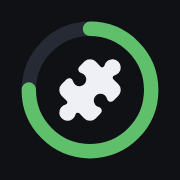
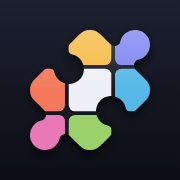
Ícone novo do app e ajustes nos controles do Eclipse
- Ícone do app: peça de quebra-cabeça com mosaico colorido, sombra e
  brilho, sem o anel de progresso; versões para iPhone, Android e aba
- O ícone da aba deixa de ser redesenhado com o progresso
- Eclipse: desfazer só com a seta, chave Sol/Lua maior e confirmação
  antes de limpar o tabuleiro

Claude-Session: https://claude.ai/code/session_01Qz1ytuQNeFNLmq2rNKZoKy

diff --git a/eclipse/index.html b/eclipse/index.html
@@ -115,15 +115,15 @@
 
   .cell svg.dim { opacity: .3; }                     /* peça do outro modo, só de referência */
   .seg {
-    flex: 1; min-height: 54px; display: grid; grid-template-columns: 1fr 1fr; gap: 3px; padding: 3px;
+    flex: 1; min-height: 62px; display: grid; grid-template-columns: 1fr 1fr; gap: 3px; padding: 3px;
     background: var(--surface); border-radius: 14px; box-shadow: var(--shadow);
   }
   .seg button {
     border: none; border-radius: 11px; cursor: pointer; padding: 0; background: none; color: var(--muted);
-    font: inherit; font-weight: 800; font-size: 1.02rem; box-shadow: none !important;
+    font: inherit; font-weight: 800; font-size: 1.15rem; box-shadow: none !important;
     display: inline-flex; align-items: center; justify-content: center; gap: 6px;
   }
-  .seg button svg { width: 24px; height: 24px; }
+  .seg button svg { width: 30px; height: 30px; }
   #modeSun[aria-pressed="true"] { background: color-mix(in srgb, var(--sun) 26%, var(--surface)); color: var(--ink); }
   #modeMoon[aria-pressed="true"] { background: color-mix(in srgb, var(--moon) 22%, var(--surface)); color: var(--ink); }
   .controls { display: flex; gap: 10px; margin-top: 14px; }
@@ -135,7 +135,7 @@
   }
   .controls button:disabled { opacity: .45; }
   .controls #clearBtn { flex: 0 0 48px; padding: 0; }
-  .controls #undoBtn { flex: 0 0 auto; padding: 0 14px; }
+  .controls #undoBtn { flex: 0 0 48px; padding: 0; }
   .controls button[aria-pressed="true"] { background: var(--accent); color: #fff; }
   @media (prefers-color-scheme: dark) { .controls button[aria-pressed="true"] { color: #11131c; } }
   .tip { text-align: center; color: var(--muted); font-size: .78rem; margin-top: 12px; line-height: 1.45; }
@@ -230,9 +230,8 @@
 <div class="board" id="board" role="grid" aria-label="Tabuleiro"></div>
 
 <div class="controls">
-  <button id="undoBtn" disabled>
-    <svg viewBox="0 0 24 24" width="18" height="18" fill="none" stroke="currentColor" stroke-width="2.4" stroke-linecap="round" stroke-linejoin="round" aria-hidden="true"><path d="M9 14L4 9l5-5"/><path d="M4 9h10.5a5.5 5.5 0 0 1 0 11H11"/></svg>
-    Desfazer
+  <button id="undoBtn" disabled aria-label="Desfazer" title="Desfazer">
+    <svg viewBox="0 0 24 24" width="20" height="20" fill="none" stroke="currentColor" stroke-width="2.4" stroke-linecap="round" stroke-linejoin="round" aria-hidden="true"><path d="M9 14L4 9l5-5"/><path d="M4 9h10.5a5.5 5.5 0 0 1 0 11H11"/></svg>
   </button>
   <div class="seg" role="group" aria-label="Modo">
     <button id="modeSun" aria-pressed="true" aria-label="Modo sol"><svg><use href="#i-sun"/></svg><span id="cSun"><b>0</b>/9</span></button>
@@ -276,6 +275,16 @@
     <p>Todo desafio tem uma única solução e pode ser resolvido só com lógica. Tem desafio novo todo dia, e a dificuldade sobe ao longo da semana: <b>segunda é nível 1</b>, o mais fácil, e <b>domingo é nível 7</b>, o mais difícil.</p>
     <p>No <b>Jogo livre</b> você joga desafios extras, de níveis variados, que não contam nas estatísticas.</p>
     <button class="btn" data-close>Jogar</button>
+  </div>
+</div>
+
+<!-- Confirmação para limpar -->
+<div class="overlay" id="clearOverlay">
+  <div class="modal" style="max-width:320px;text-align:center">
+    <h2 style="justify-content:center">Limpar o tabuleiro?</h2>
+    <p style="color:var(--muted);margin:0 0 18px">Todas as peças e marcações saem. As peças reveladas ficam. Dá para desfazer depois.</p>
+    <button class="btn" id="clearYes" style="background:var(--bad);color:#fff">Limpar</button>
+    <button class="close" data-close style="margin-top:12px;width:auto;padding:0 18px;height:36px;border-radius:99px">Cancelar</button>
   </div>
 </div>
 
@@ -590,6 +599,12 @@
     render(); persist();
   });
   $("clearBtn").addEventListener("click", () => {
+    if (finished) return;
+    if (!cells.some((v, i) => !givens.has(i) && v !== ".")) return;   // nada para limpar
+    openModal("clearOverlay");
+  });
+  $("clearYes").addEventListener("click", () => {
+    closeModal($("clearOverlay"));
     if (finished) return;
     const before = cells.join("");
     cells = cells.map((v, i) => (givens.has(i) ? v : "."));

diff --git a/index.html b/index.html
@@ -9,8 +9,8 @@
 <meta name="apple-mobile-web-app-status-bar-style" content="black-translucent">
 <meta name="apple-mobile-web-app-title" content="Jogos do Dia">
 <title>Jogos do Dia</title>
-<link rel="icon" id="favicon" type="image/png" href="icon-192.png?v=5">
-<link rel="apple-touch-icon" href="apple-touch-icon.png?v=5">
+<link rel="icon" id="favicon" type="image/png" href="icon-192.png?v=6">
+<link rel="apple-touch-icon" href="apple-touch-icon.png?v=6">
 <link rel="manifest" href="manifest.json">
 <link rel="preconnect" href="https://fonts.googleapis.com">
 <link rel="preconnect" href="https://fonts.gstatic.com" crossorigin>
@@ -627,40 +627,8 @@ function render() {
 
   $("toggleTab").textContent = state.newTab ? "↗ Abrindo em nova aba" : "↩ Abrindo na mesma aba";
 
-  drawFavicon(n, total);
   if (location.hash === "#historico" && typeof renderHistory === "function") renderHistory();
   updateBadge(total - n);
-}
-
-/* ---------- Ícone da aba: anel de progresso desenhado ao vivo ---------- */
-// peça "puzzle" do Lucide (https://lucide.dev, licença ISC)
-const PUZZLE_PATH = new Path2D("M15.39 4.39a1 1 0 0 0 1.68-.474 2.5 2.5 0 1 1 3.014 3.015 1 1 0 0 0-.474 1.68l1.683 1.682a2.414 2.414 0 0 1 0 3.414L19.61 15.39a1 1 0 0 1-1.68-.474 2.5 2.5 0 1 0-3.014 3.015 1 1 0 0 1 .474 1.68l-1.683 1.682a2.414 2.414 0 0 1-3.414 0L8.61 19.61a1 1 0 0 0-1.68.474 2.5 2.5 0 1 1-3.014-3.015 1 1 0 0 0 .474-1.68l-1.683-1.682a2.414 2.414 0 0 1 0-3.414L4.39 8.61a1 1 0 0 1 1.68.474 2.5 2.5 0 1 0 3.014-3.015 1 1 0 0 1-.474-1.68l1.683-1.682a2.414 2.414 0 0 1 3.414 0z");
-function drawFavicon(n, total) {
-  const S = 128, c = document.createElement("canvas");
-  c.width = c.height = S;
-  const x = c.getContext("2d");
-  const complete = n === total;
-  // fundo arredondado: escuro durante o dia, verde quando tudo está feito
-  x.fillStyle = complete ? "#5fbf6a" : "#0f1115";
-  x.beginPath(); x.roundRect(0, 0, S, S, 28); x.fill();
-  // mesma geometria do ícone do app: anel grande, peça "puzzle" do Lucide preenchida
-  const w = S * 0.08, r = S * 0.38 - w / 2;
-  x.lineWidth = w; x.lineCap = "round";
-  x.strokeStyle = complete ? "rgba(255,255,255,.35)" : "#262a34";
-  x.beginPath(); x.arc(S/2, S/2, r, 0, Math.PI * 2); x.stroke();
-  if (n > 0) {
-    x.strokeStyle = complete ? "#ffffff" : "#5fbf6a";
-    x.beginPath(); x.arc(S/2, S/2, r, -Math.PI/2, -Math.PI/2 + Math.PI * 2 * n / total); x.stroke();
-  }
-  const size = S * 0.40, scale = size / 24;
-  x.save();
-  x.translate((S - size) / 2, (S - size) / 2);
-  x.scale(scale, scale);
-  x.fillStyle = x.strokeStyle = complete ? "#ffffff" : "#eef0f5";
-  x.lineWidth = 0.5; x.lineJoin = "round"; x.lineCap = "round";
-  x.fill(PUZZLE_PATH); x.stroke(PUZZLE_PATH);
-  x.restore();
-  $("favicon").href = c.toDataURL("image/png");
 }
 
 /* ---------- Número no ícone do app (Badging API) ----------

diff --git a/sw.js b/sw.js
@@ -1,6 +1,6 @@
 // Service worker do Jogos do Dia.
 // Deixa o painel instalável e funcionando offline (sempre tenta a versão mais nova primeiro).
-const CACHE = "jogos-do-dia-v18";
+const CACHE = "jogos-do-dia-v19";
 const FILES = ["./", "./index.html", "./manifest.json", "./icon-192.png", "./icon-512.png", "./apple-touch-icon.png"];
 
 self.addEventListener("install", e => {

diff --git a/README.md b/README.md
@@ -119,11 +119,10 @@ Os ✕ claros são automáticos: vizinhas de qualquer peça e a linha, coluna e 
 
 Para gerar os desafios de novo, rode `node eclipse/gerador.mjs [dias]` (padrão: 730 dias a partir de 27/09/2026); ele refaz `desafios.json` e `livre.json`.
 
-## Ícone e progresso fora do painel
+## Ícone e pendências fora do painel
 
-- **Ícone da tela inicial:** fixo, com o anel como logotipo. Celulares não deixam um site redesenhar esse ícone depois de instalado.
+- **Ícone do app:** uma peça de quebra-cabeça preenchida por um mosaico colorido. O iPhone grava o ícone quando o atalho é criado; para trocar, é preciso apagar o atalho e adicionar de novo (o progresso não se perde).
 - **Número no ícone:** o app instalado mostra quantos jogos faltam no dia e some quando está tudo feito. No iPhone (iOS 16.4+) é preciso tocar uma vez em "🔔 Mostrar pendentes no ícone", no rodapé, e permitir notificações. O Chrome do Android não suporta esse número.
-- **Ícone da aba:** no navegador, o ícone da aba é redesenhado ao vivo com o anel de progresso e fica verde quando tudo está feito.
 - O painel não consegue saber o que foi jogado direto nos outros sites. Ele registra só o que é aberto por ele ou marcado no switch.
 - O número no ícone é atualizado sempre que o painel é aberto. Depois da meia-noite ele continua mostrando o dia anterior até você abrir o painel.
 
@@ -140,4 +139,4 @@ No celular, abra o painel e use **"Adicionar à tela inicial"** no menu do naveg
 
 ## Créditos
 
-A peça de quebra-cabeça do ícone é o ícone "puzzle" do [Lucide](https://lucide.dev), preenchido, usado sob a licença ISC.
+A peça de quebra-cabeça do ícone do app é o ícone "puzzle" do [Lucide](https://lucide.dev), preenchido com um mosaico, usado sob a licença ISC.
